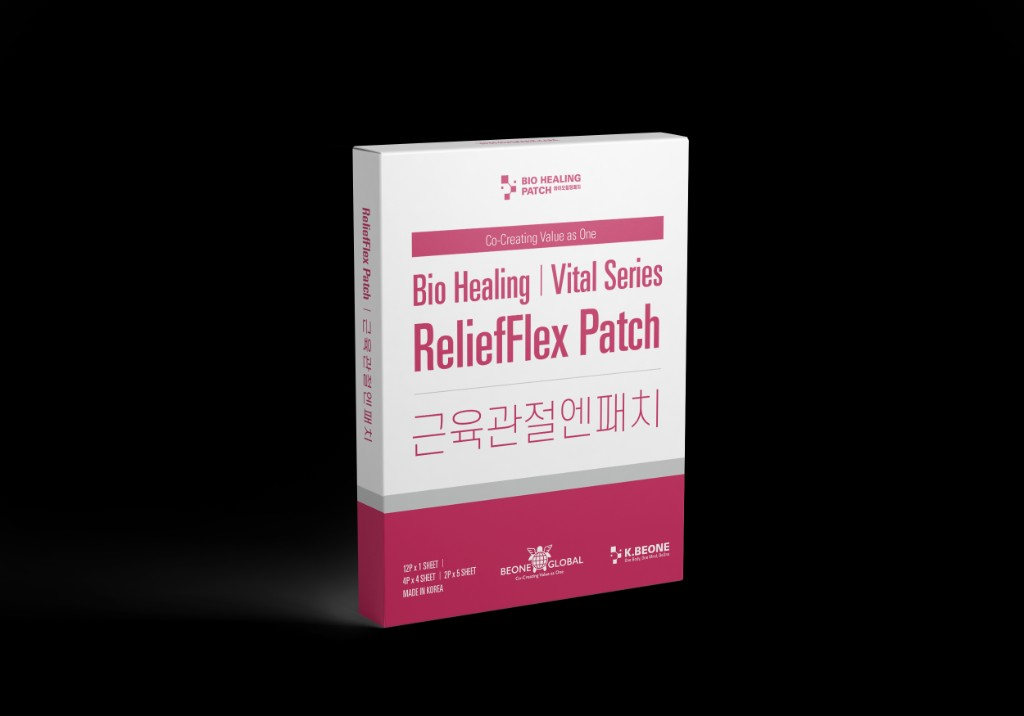
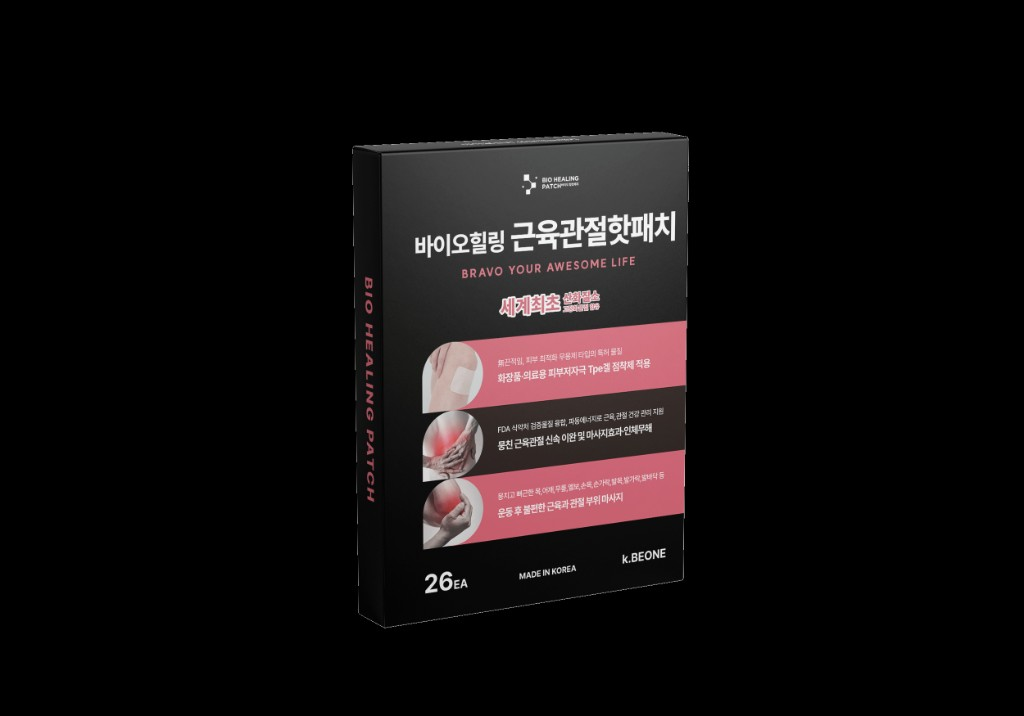
assets: update product packshots (7 Bio Healing patches)
Replace Bio Healing line packshots with new PNGs and point site content at
/assets/products/goods-*.png; drop superseded JPEGs for the same SKUs.

Changed region(s): [[0.25, 0.1844, 0.6875, 0.8911]]

diff --git a/src/data/siteContent.ts b/src/data/siteContent.ts
@@ -539,7 +539,7 @@ export const site = {
       {
         name: '근육관절핫패치',
         goodsNo: '1000000021',
-        image: '/assets/products/goods-1000000021.jpg',
+        image: '/assets/products/goods-1000000021.png',
         shopHref: 'https://www.kbeone.co.kr/goods/goods_view.php?goodsNo=1000000021',
         blurb:
           '온열 컨디셔닝(HOT) 전용 라인으로, 이중 온열·비타민·허브 등 복합 설계가 B2B 자료에 기술되어 있습니다. 열감은 성분 특성에 따른 체감이며, 의학적 효능은 표방하지 않습니다.',
@@ -555,7 +555,7 @@ export const site = {
       {
         name: '굿나잇패치',
         goodsNo: '1000000019',
-        image: '/assets/products/goods-1000000019.jpg',
+        image: '/assets/products/goods-1000000019.png',
         shopHref: 'https://www.kbeone.co.kr/goods/goods_view.php?goodsNo=1000000019',
         blurb:
           '야간·수면 시간대 착용을 전제로 멘톨·카페인 ZERO, 아이브라이트·페퍼민트 마일드 쿨링 등이 교육용 자료에 정리된 화장품 패치입니다.',
@@ -563,7 +563,7 @@ export const site = {
       {
         name: '다기억패치',
         goodsNo: '1000000018',
-        image: '/assets/products/goods-1000000018.jpg',
+        image: '/assets/products/goods-1000000018.png',
         shopHref: 'https://www.kbeone.co.kr/goods/goods_view.php?goodsNo=1000000018',
         blurb:
           '빌베리·안토시아닌·NO·쿨링 등을 조합한 플래그십 라인으로 B2B·교육 자료에 소개됩니다. 치매·인지 질환 치료 표현은 자료에서 배제합니다.',
@@ -571,7 +571,7 @@ export const site = {
       {
         name: '쏘팔메토패치',
         goodsNo: '1000000012',
-        image: '/assets/products/goods-1000000012.jpg',
+        image: '/assets/products/goods-1000000012.png',
         shopHref: 'https://www.kbeone.co.kr/goods/goods_view.php?goodsNo=1000000012',
         blurb:
           '쏘팔메토·네틀오일 등 허브 웰니스 컨디셔닝을 지향하는 화장품 패치로 B2B 자료에 정리되어 있습니다. 질병 치료·건강기능식품 표현은 표방하지 않습니다.',
@@ -579,7 +579,7 @@ export const site = {
       {
         name: '에너이자패치',
         goodsNo: '1000000013',
-        image: '/assets/products/goods-1000000013.jpg',
+        image: '/assets/products/goods-1000000013.png',
         shopHref: 'https://www.kbeone.co.kr/goods/goods_view.php?goodsNo=1000000013',
         blurb:
           '훼뉴그릭(호로파)·넷틀(쐐기풀)·NO·멘톨 등 활력 허브 컨디셔닝을 지향하는 화장품 패치로 B2B 자료에 기술되어 있습니다.',